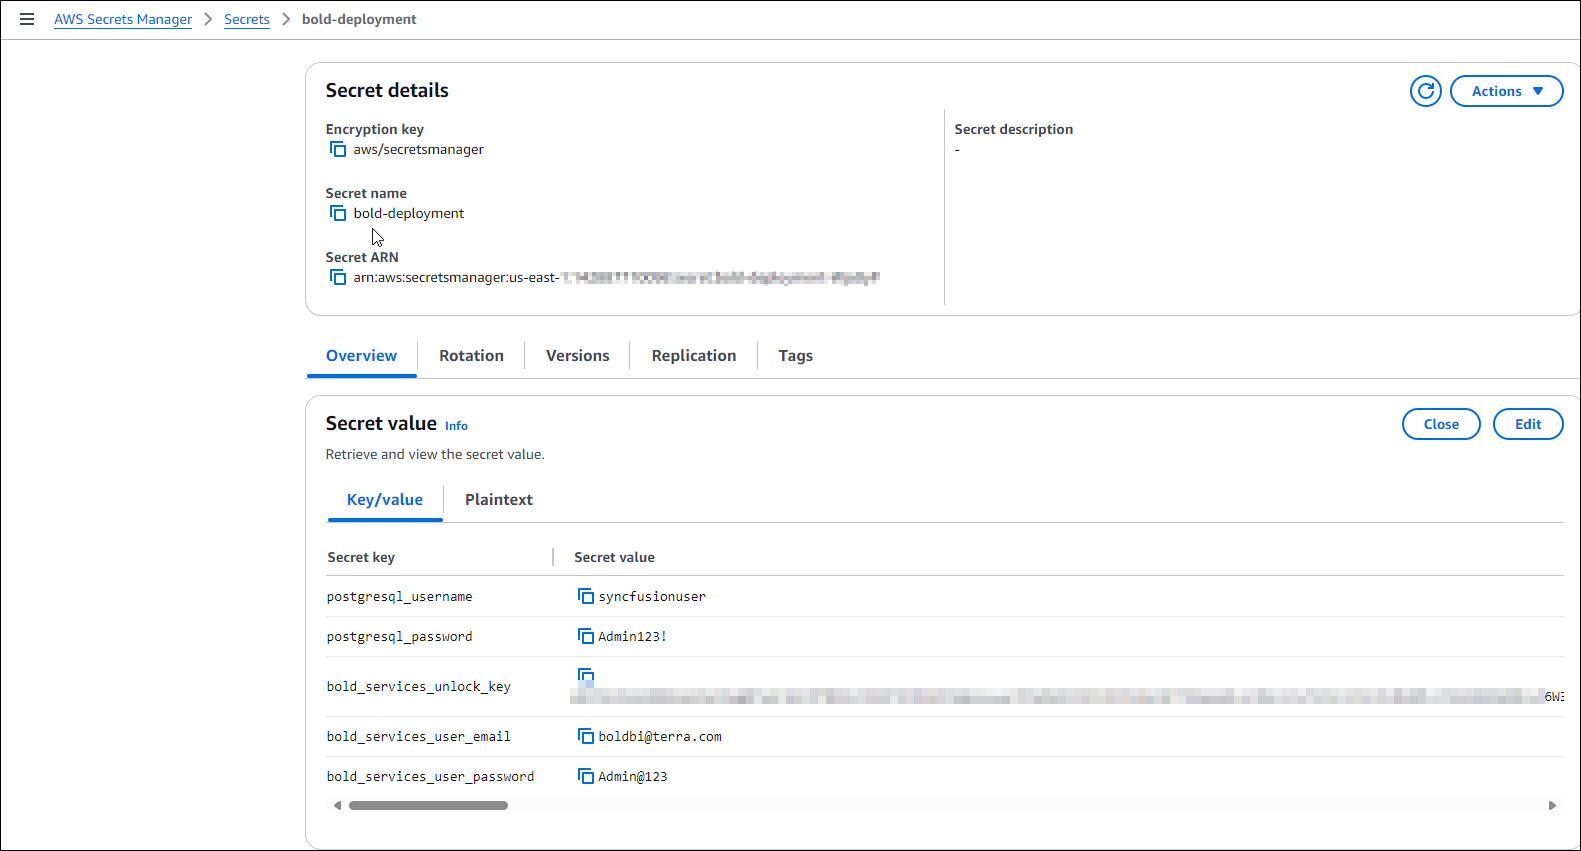
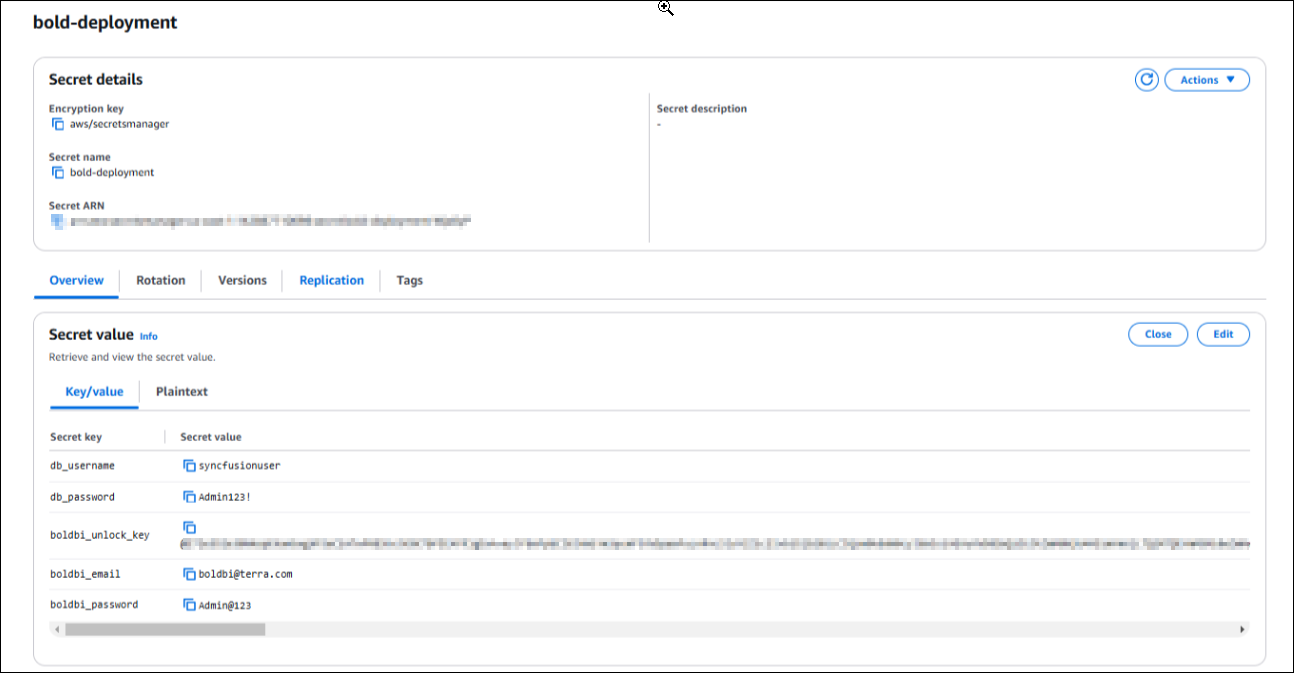
change the variable name

diff --git a/aws-ecs/README.md b/aws-ecs/README.md
@@ -60,11 +60,11 @@ Other than this, we need to add the following environment variables either as a 
 
 | system variable               |AWS Secrets Manager Variable Name |Required| **Description**                                    |
 |-------------------------------|----------------------------------|--------|----------------------------------------------------|
-| TF_VAR_db_username            | postgresql_username              | Yes    | **Database username** <br> - db username must only contain characters and numbers.<br> - db username cannot be 'admin', 'administrator', 'root', 'guest', 'public' or start with 'pg_'.                             |
-| TF_VAR_db_password            | postgresql_password              | Yes    | **Database password** <br> - Your password must be at least 8 characters and at most 128 characters.<br> - Your password must contain characters from three of the following categories<br> - English uppercase letters, English lowercase letters, numbers (0-9), and non-alphanumeric characters (!, $, #, %, etc.).<br> - Your password cannot contain all or part of the login name. Part of a login name is defined as three or more consecutive alphanumeric characters.                                 |
-| TF_VAR_boldbi_username        | bold_services_user_email         | Yes     | Bold BI admin username                           |
-| TF_VAR_boldbi_user_password   | bold_services_user_password      | Yes     | **Bold BI admin password**<br> - Your password must be at least 8 characters and at most 128 characters.<br> - Your password must contain characters from three of the following categories<br> - English uppercase letters, English lowercase letters, numbers (0-9), and non-alphanumeric characters (!, $, #, %, etc.)|
-| TF_VAR_boldbi_unlock_key      | bold_services_unlock_key         | Yes     | Unlock key for Bold BI                           |
+| TF_VAR_db_username            | db_username              | Yes    | **Database username** <br> - db username must only contain characters and numbers.<br> - db username cannot be 'admin', 'administrator', 'root', 'guest', 'public' or start with 'pg_'.                             |
+| TF_VAR_db_password            | db_password              | Yes    | **Database password** <br> - Your password must be at least 8 characters and at most 128 characters.<br> - Your password must contain characters from three of the following categories<br> - English uppercase letters, English lowercase letters, numbers (0-9), and non-alphanumeric characters (!, $, #, %, etc.).<br> - Your password cannot contain all or part of the login name. Part of a login name is defined as three or more consecutive alphanumeric characters.                                 |
+| TF_VAR_boldbi_email        | boldbi_email         | Yes     | Bold BI admin username                           |
+| TF_VAR_boldbi_password   | boldbi_password      | Yes     | **Bold BI admin password**<br> - Your password must be at least 8 characters and at most 128 characters.<br> - Your password must contain characters from three of the following categories<br> - English uppercase letters, English lowercase letters, numbers (0-9), and non-alphanumeric characters (!, $, #, %, etc.)|
+| TF_VAR_boldbi_unlock_key      | boldbi_unlock_key         | Yes     | Unlock key for Bold BI                           |
 | TF_VAR_route53_zone_id        | route53_zone_id                  | No      | AWS Route 53 Zone ID (if applicable)             |
 | TF_VAR_acm_certificate_arn    | acm_certificate_arn              | No      | AWS ACM Certificate for SSL configuration        |
 | TF_VAR_app_base_url           | app_base_url                     | No      | Base URL for the Application                     |
